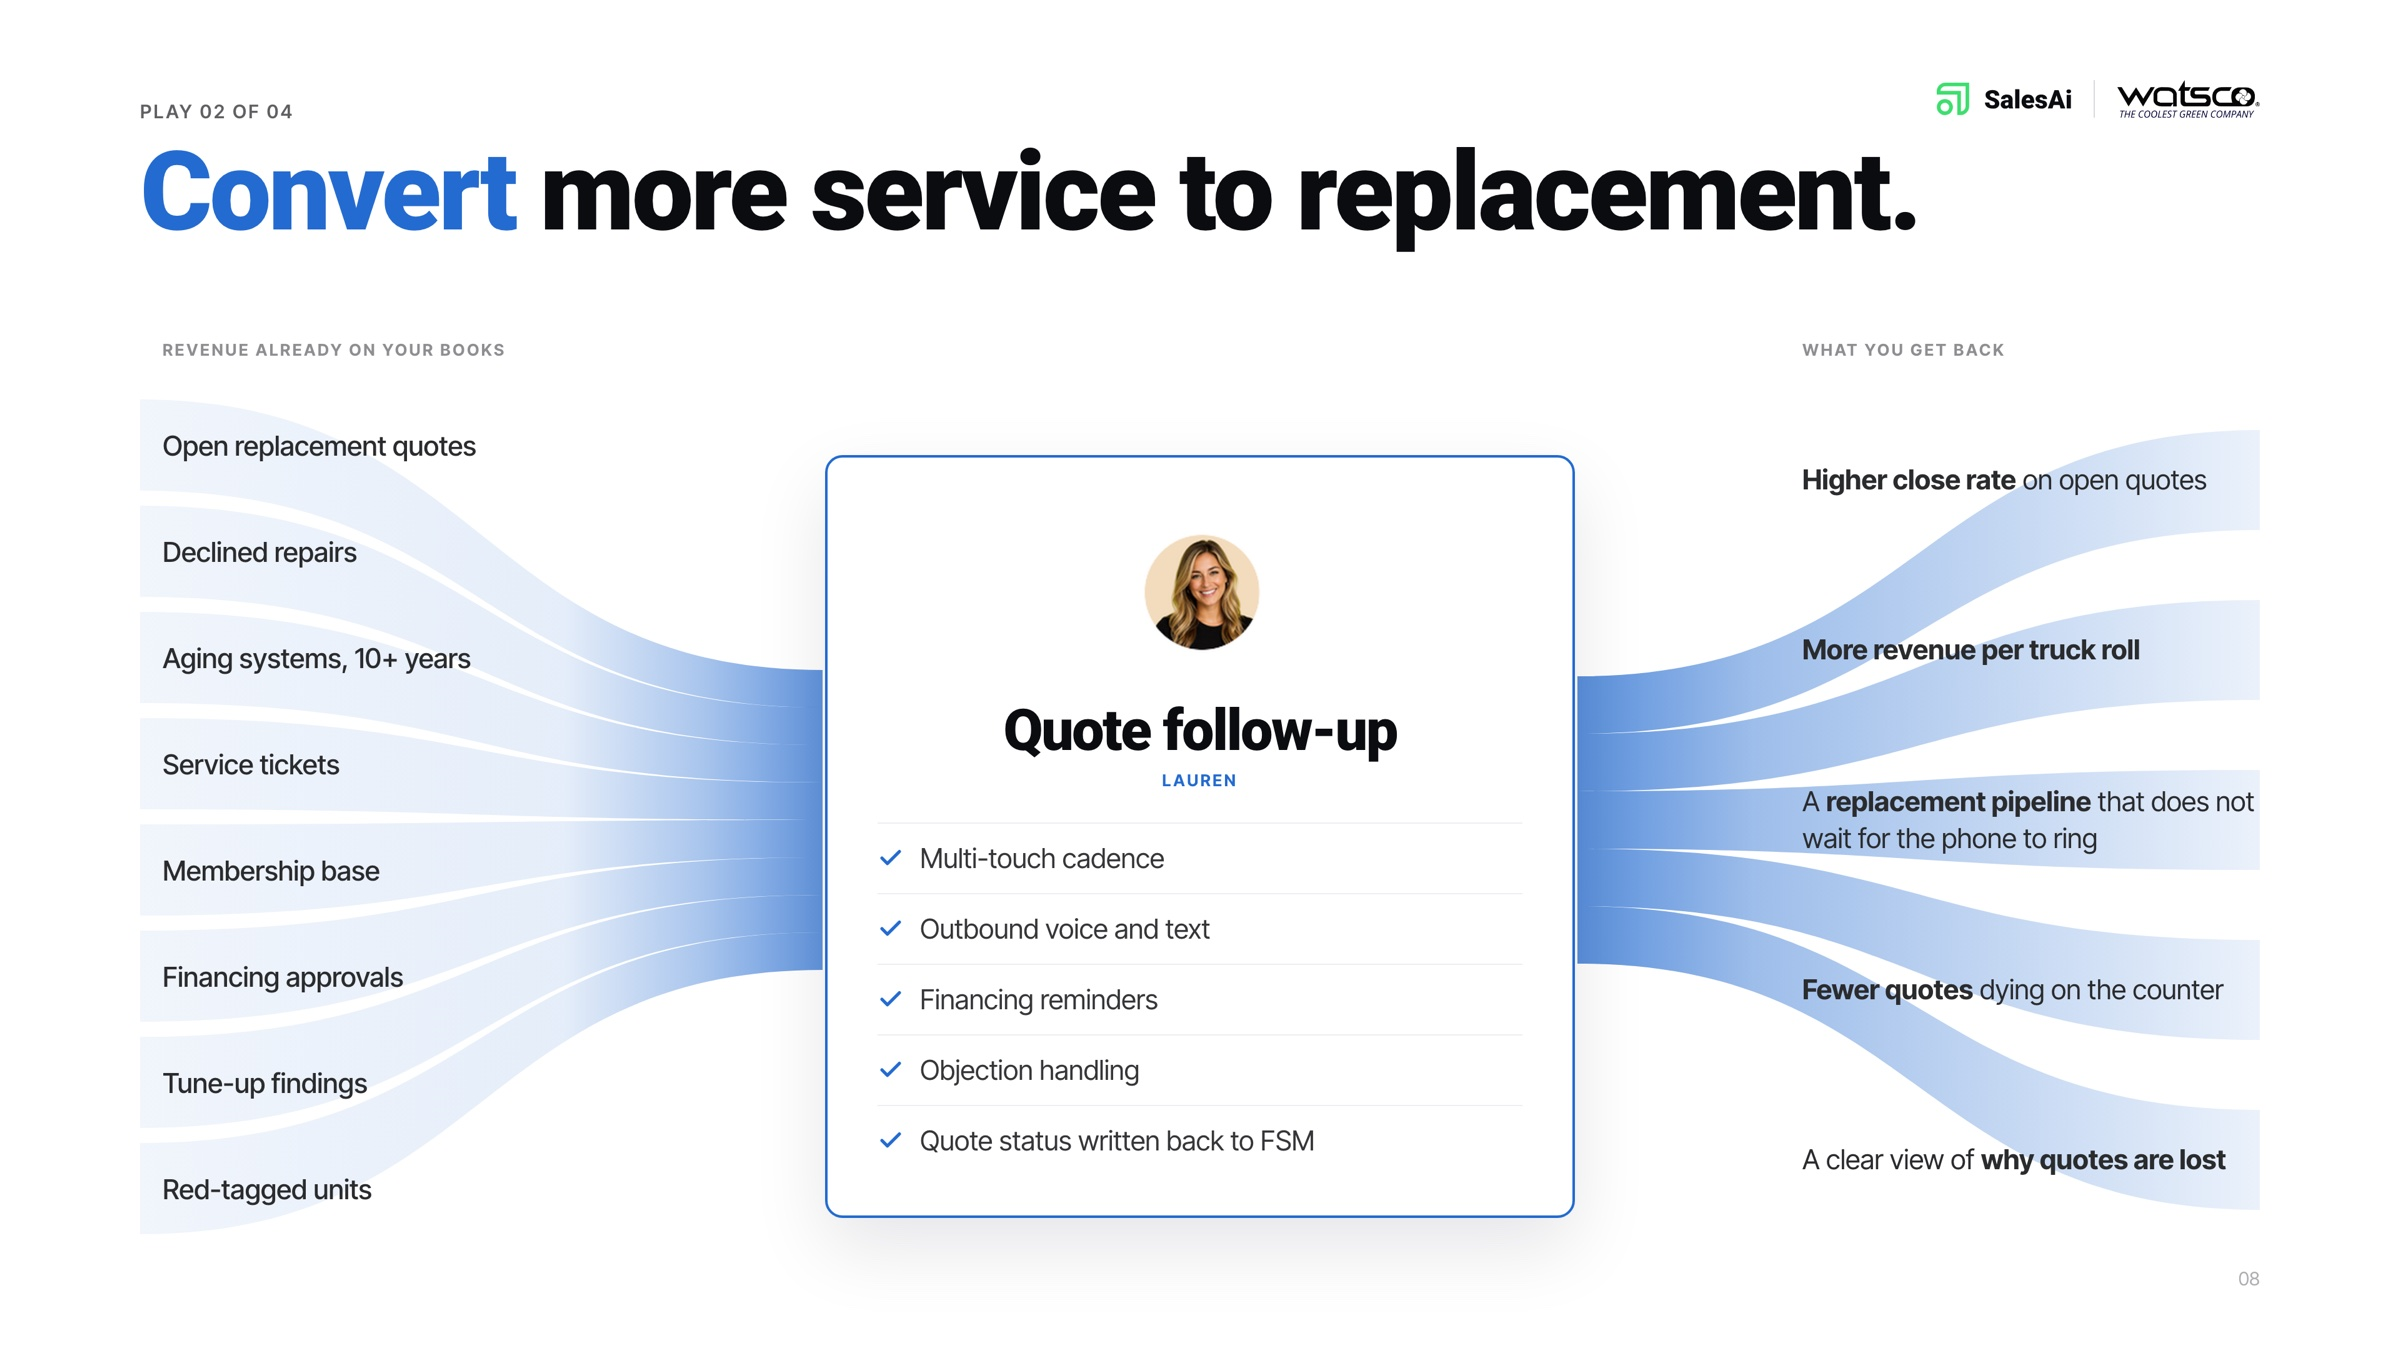
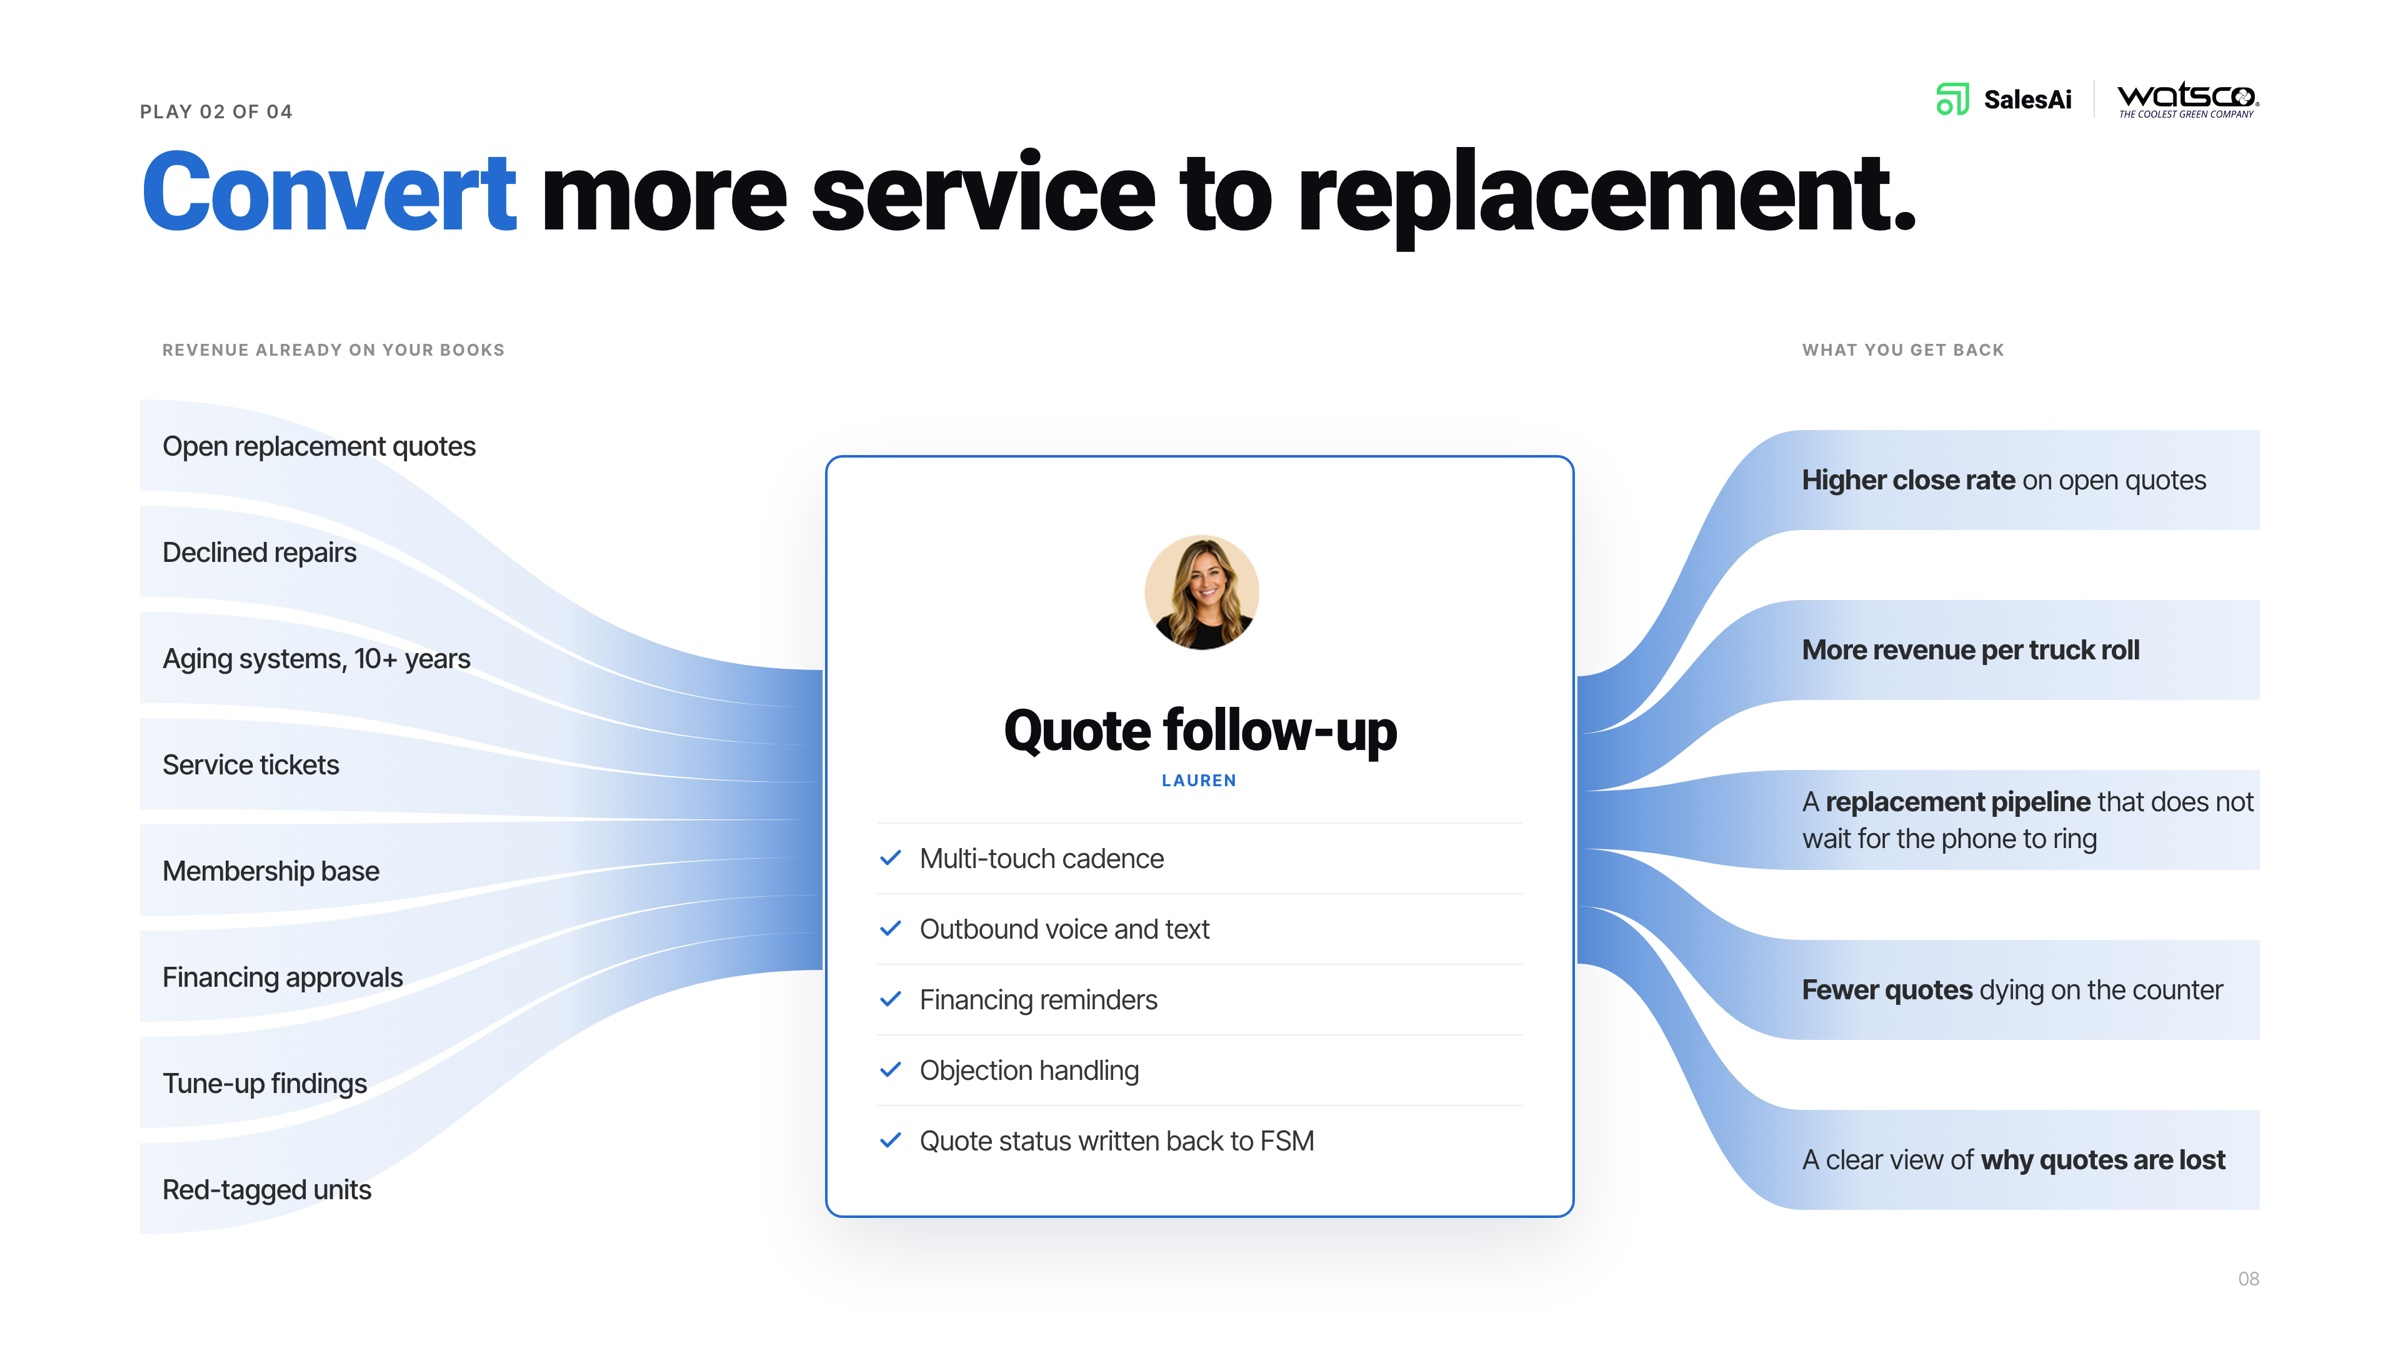
Plays: outbound ribbons flatten at the outcome text
Curve now resolves at the left edge of the right-hand copy and runs
straight from there, so every outcome sits on a flat band instead of
a still-bending one. Applied to all four plays.

Claude-Session: https://claude.ai/code/session_01541ZQJSzd5g49QbE64sNeN

Changed region(s): [[0.6562, 0.3111, 0.9062, 0.9022]]

diff --git a/watsco-dealer-deck.html b/watsco-dealer-deck.html
@@ -47,10 +47,10 @@ footer p { max-width:1100px; margin:0 auto; font-size:13px; line-height:1.6; col
 <figure><img src="watsco-deck/04.jpg?v=5ed5ec9afa" width="2400" height="1350" alt="Slide 04 — The question" loading="lazy" decoding="async"><figcaption><span class="n">04</span>The question</figcaption></figure>
 <figure><img src="watsco-deck/05.jpg?v=6aecb81ecc" width="2400" height="1350" alt="Slide 05 — The product" loading="lazy" decoding="async"><figcaption><span class="n">05</span>The product</figcaption></figure>
 <figure><img src="watsco-deck/06.jpg?v=4ed54e935d" width="2400" height="1350" alt="Slide 06 — How it fits together" loading="lazy" decoding="async"><figcaption><span class="n">06</span>How it fits together</figcaption></figure>
-<figure><img src="watsco-deck/07.jpg?v=200b642800" width="2400" height="1350" alt="Slide 07 — Play 01 · Capture demand" loading="lazy" decoding="async"><figcaption><span class="n">07</span>Play 01 · Capture demand</figcaption></figure>
-<figure><img src="watsco-deck/08.jpg?v=4dccb21bf1" width="2400" height="1350" alt="Slide 08 — Play 02 · Convert to replacement" loading="lazy" decoding="async"><figcaption><span class="n">08</span>Play 02 · Convert to replacement</figcaption></figure>
-<figure><img src="watsco-deck/09.jpg?v=98331dffae" width="2400" height="1350" alt="Slide 09 — Play 03 · Coordinate execution" loading="lazy" decoding="async"><figcaption><span class="n">09</span>Play 03 · Coordinate execution</figcaption></figure>
-<figure><img src="watsco-deck/10.jpg?v=de18f1caf7" width="2400" height="1350" alt="Slide 10 — Play 04 · Care after the sale" loading="lazy" decoding="async"><figcaption><span class="n">10</span>Play 04 · Care after the sale</figcaption></figure>
+<figure><img src="watsco-deck/07.jpg?v=e17e06c904" width="2400" height="1350" alt="Slide 07 — Play 01 · Capture demand" loading="lazy" decoding="async"><figcaption><span class="n">07</span>Play 01 · Capture demand</figcaption></figure>
+<figure><img src="watsco-deck/08.jpg?v=09727da246" width="2400" height="1350" alt="Slide 08 — Play 02 · Convert to replacement" loading="lazy" decoding="async"><figcaption><span class="n">08</span>Play 02 · Convert to replacement</figcaption></figure>
+<figure><img src="watsco-deck/09.jpg?v=9ab53ff533" width="2400" height="1350" alt="Slide 09 — Play 03 · Coordinate execution" loading="lazy" decoding="async"><figcaption><span class="n">09</span>Play 03 · Coordinate execution</figcaption></figure>
+<figure><img src="watsco-deck/10.jpg?v=5d628f03a8" width="2400" height="1350" alt="Slide 10 — Play 04 · Care after the sale" loading="lazy" decoding="async"><figcaption><span class="n">10</span>Play 04 · Care after the sale</figcaption></figure>
 <figure><img src="watsco-deck/11.jpg?v=0dd8a9b20b" width="2400" height="1350" alt="Slide 11 — What compounds" loading="lazy" decoding="async"><figcaption><span class="n">11</span>What compounds</figcaption></figure>
 <figure><img src="watsco-deck/12.jpg?v=47e6ed5370" width="2400" height="1350" alt="Slide 12 — Proof" loading="lazy" decoding="async"><figcaption><span class="n">12</span>Proof</figcaption></figure>
 <figure><img src="watsco-deck/13.jpg?v=84be0091f0" width="2400" height="1350" alt="Slide 13 — Enterprise-grade security" loading="lazy" decoding="async"><figcaption><span class="n">13</span>Enterprise-grade security</figcaption></figure>
